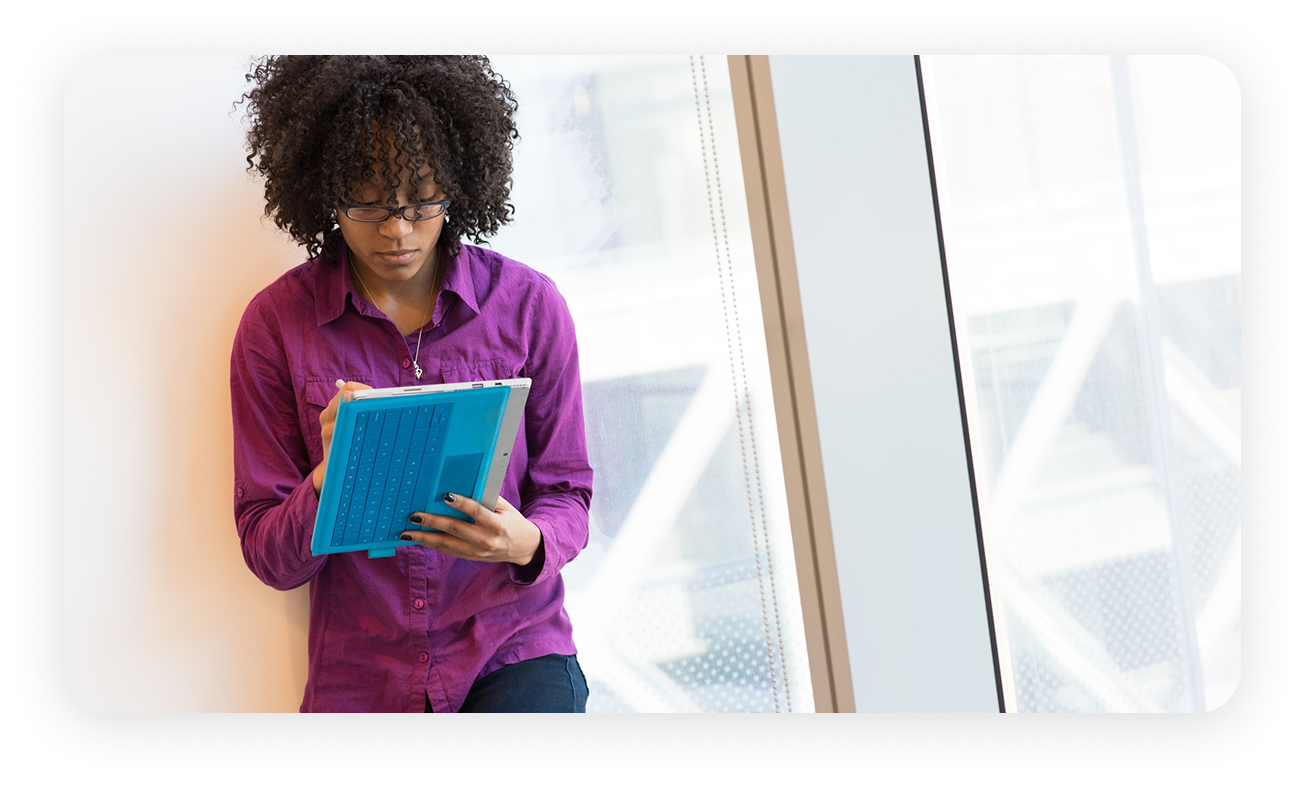
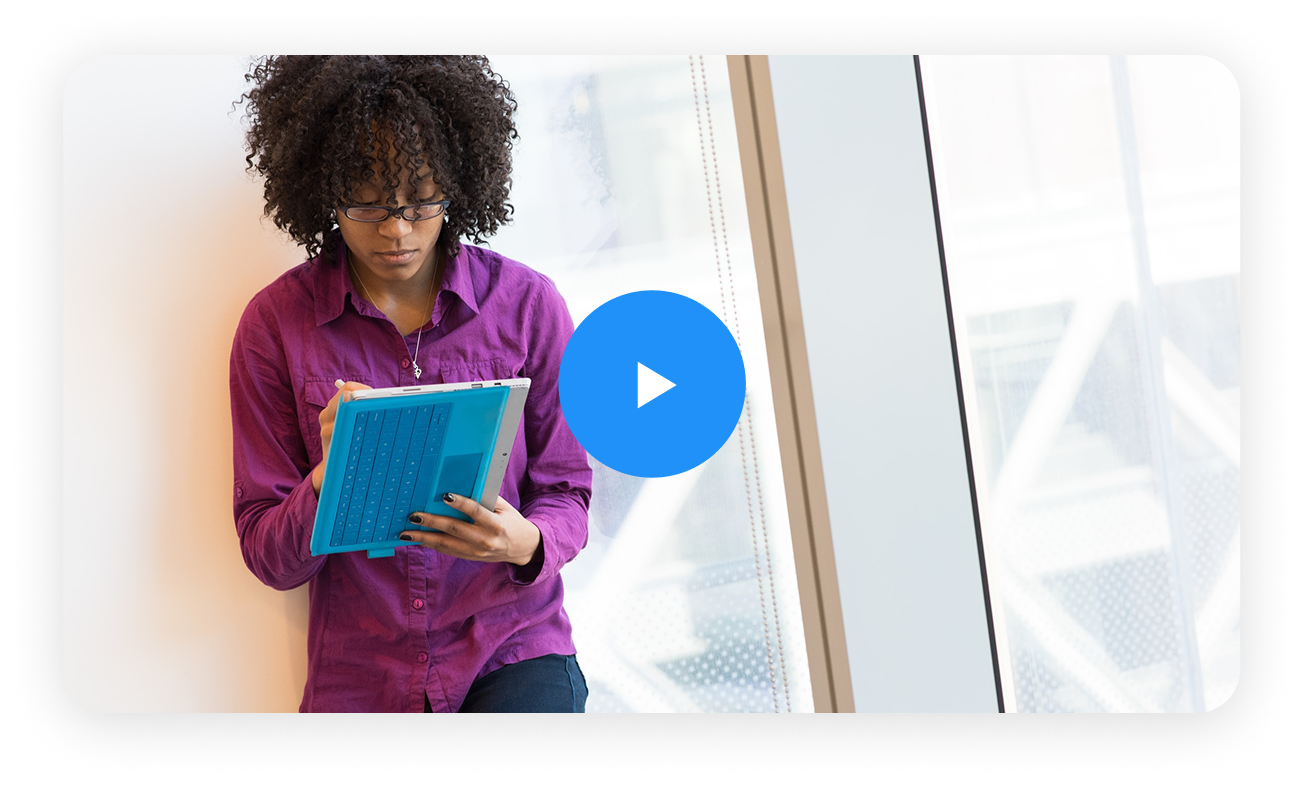
write css from feauture section

diff --git a/index.features.partial.html b/index.features.partial.html
@@ -1,30 +1,50 @@
-<section>
-  <div>
-    <h2>Features</h2>
-    <p>
+<section class="features">
+  <div class="feautures-container container">
+    <h2 class="feautures-title">Features</h2>
+    <p class="feautures-text">
       Most calendars are designed for teams. Slate is designed for freelancers
     </p>
-    <ul>
-      <li>
-        <img src="svg/Vector_features_1.svg" alt="коло та квадрат" />
-        <h3>OpenType features Variable fonts</h3>
-        <p>
+    <img
+      class="features-img--workplace"
+      src="img/features_workplace_mob.png"
+      alt="Workplace_img"
+      aria-label="Workplace"
+    />
+    <ul class="features-list">
+      <li class="feautures-list__item">
+        <img
+          class="feautures-list__item--img"
+          src="svg/Vector_features_1.svg"
+          alt="Коло та квадрат"
+        />
+        <h3 class="feautures-list__item--title">
+          OpenType features Variable fonts
+        </h3>
+        <p class="feautures-list__item--text">
           Slate helps you see how many more days you need to work to reach your
           financial goal.
         </p>
       </li>
-      <li>
-        <img src="svg/Vector_features_2.svg" alt="Олівець який малює" />
-        <h3>Design with real data</h3>
-        <p>
+      <li class="feautures-list__item">
+        <img
+          class="feautures-list__item--img"
+          src="svg/Vector_features_2.svg"
+          alt="Олівець який малює"
+        />
+        <h3 class="feautures-list__item--title">Design with real data</h3>
+        <p class="feautures-list__item--text">
           Slate helps you see how many more days you need to work to reach your
           financial goal.
         </p>
       </li>
-      <li>
-        <img src="svg/Vector_features_3.svg" alt="пензлик" />
-        <h3>Fastest way to take action</h3>
-        <p>
+      <li class="feautures-list__item">
+        <img
+          class="feautures-list__item--img"
+          src="svg/Vector_features_3.svg"
+          alt="Пензлик"
+        />
+        <h3 class="feautures-list__item--title">Fastest way to take action</h3>
+        <p class="feautures-list__item--text">
           Slate helps you see how many more days you need to work to reach your
           financial goal.
         </p>

diff --git a/css/index.header-hero.css b/css/index.header-hero.css
@@ -1,25 +1,65 @@
 .header {
-    background-image: url(../img/background_img_mob.png);
-    block-size: cover;
-    background-position: center;
-    background-repeat: no-repeat;
-    min-width: 320px;
-    width: 100%;
-    height: 100%;
-    margin: 0;
-    padding: 0;
+  background-image: url(../img/background_img_mob.png);
+  block-size: cover;
+  background-position: center;
+  background-repeat: no-repeat;
+  min-width: 320px;
+  width: 100%;
+  height: 100%;
+  margin: 0;
+  padding: 0;
 
-    @media (min-width: 416px) {
-      background-image: url(../img/background_img_desc.png);
-    }
+  @media (min-width: 416px) {
+    background-image: url(../img/background_img_desc.png);
+  }
+
+  .hero-container {
+    color: var(--background-color);
+    text-align: center;
 
     .hero-title {
-        padding-top: 90px;
-        padding-left: 25px;
-        padding-right: 25px;
-        text-align: center;
+      padding: 70px 15px 20px 15px;
+      font-size: 2.2rem;
+      font-weight: 400;
+      line-height: 55px;
+      color: var(--background-color);
+
+      @media (min-width: 416px) {
+        padding: 90px 17px 27px 17px;
         font-size: 2.66rem;
-        
-        color: var(--background-color);
+      }
     }
+
+    .hero-text {
+      font-size: 1.2rem;
+      line-height: 40px;
+      padding: 0px 40px 50px 40px;
+
+      @media (min-width: 416px) {
+        font-size: 1.55rem;
+        line-height: 40px;
+        padding: 0px 70px 70px 70px;
+      }
+    }
+
+    .hero-button {
+      display: inline-block;
+      margin-bottom: 220px;
+      background-color: var(--accent-color);
+      border-radius: 35px;
+      padding: 16px 86px;
+      text-decoration: none;
+      transition: background-color var(--transition-speed) easy;
+      
+      &:hover {
+        background-color: #1061ab; 
+      }
+
+      .hero-button__text {
+        color: var(--background-color);
+        font-size: 1rem;
+        font-weight: 400;
+      }
+    }
+  }
 }

diff --git a/css/index.features.css b/css/index.features.css
@@ -1,0 +1,95 @@
+.feautures-container {
+  margin: 80px 0px;
+  text-align: center;
+
+  .feautures-title {
+    padding: 10px;
+    margin-bottom: 7px;
+    font-size: 2rem;
+    font-weight: 400;
+    color: var(--text-title-color);
+
+    @media (min-width: 416px) {
+      font-size: 2.66rem;
+    }
+  }
+
+  .feautures-text {
+    font-size: 1.2rem;
+    line-height: 30px;
+    color: var(--text-color);
+    padding: 10px 30px;
+    margin-bottom: 40px;
+
+    @media (min-width: 416px) {
+      font-size: 1.55rem;
+      line-height: 40px;
+      padding: 10px 50px;
+      margin-bottom: 50px;
+    }
+  }
+
+  .features-img--workplace {
+    width: 100%;
+    height: auto;
+    object-fit: cover;
+    margin-bottom: 40px;
+
+    @media (min-width: 416px) {
+      margin-bottom: 50px;
+    }
+
+    @media (min-width: 768px) {
+      display: none;
+    }
+  }
+
+  .features-list {
+    padding: 10px 50px;
+
+    @media (min-width: 416px) {
+        padding: 18px 65px;
+    }
+    
+    .feautures-list__item {
+        padding: 10px 0;
+
+        .feautures-list__item--img {
+            width: 60px;
+            height: 60px;
+            margin-left: auto;
+            margin-right: auto;
+            object-fit: contain;
+            margin-bottom: 10px;
+        }
+
+        .feautures-list__item--title {
+            padding: 10px;
+            font-weight: 600;
+            color: var(--text-title-color);
+            margin-bottom: 10px;
+
+            @media (min-width: 416px) {
+                padding: 10px 20px;
+                font-size: 1.1rem;
+                font-weight: 700;
+            }
+        }
+
+        .feautures-list__item--text {
+            padding: 0px 5px;
+            
+            color: var(--text-color);
+        }
+    }
+
+    .feautures-list__item:not(:last-child) {
+        margin-bottom: 60px;
+
+        @media 
+        (min-width: 416px) {
+            margin-bottom: 75px;
+        }
+    }
+  }
+}

diff --git a/global.header-nav.partial.html b/global.header-nav.partial.html
@@ -29,13 +29,19 @@
     </button>
     <ul class="header-social-networks__list social-networks list">
       <li class="header-social-networks__item social-networks__item">
-        <a href="svg/twiter_icon.svg"> </a>
+        <a href="#">
+          <img src="svg/twitter_icon.svg" alt="Twitter-icon" aria-label="Twitter">
+        </a>
       </li>
       <li class="header-social-networks__item social-networks__item">
-        <a href="svg/fb_icon.svg"> </a>
+        <a href="#">
+          <img src="svg/fb_icon.svg" alt="Facebook-icon" aria-label="Facebook">
+        </a>
       </li>
       <li class="header-social-networks__item social-networks__item">
-        <a href="svg/in_icon.svg"> </a>
+        <a href="#">
+          <img src="svg/in_icon.svg" alt="LinkedIn-icon" aria-label="LinkedIn">
+        </a>
       </li>
     </ul>
   </div>

diff --git a/css/social-networks.css b/css/social-networks.css
@@ -1,0 +1,22 @@
+.social-networks {
+    display: flex;
+    justify-content: center;
+    gap: 24px;
+
+    .social-networks__item {
+      width: 40px;
+      height: 40px;
+      display: flex;
+      align-items: center;
+      justify-content: center;
+      border-radius: 50%;
+      background-color: inherit;
+      cursor: pointer;
+
+      .social-networks__icon {
+        width: 20px;
+        height: 20px;
+        color: var(--background-color);
+      }
+    }
+}

diff --git a/css/global.css b/css/global.css
@@ -6,7 +6,21 @@
   margin: 0;
   padding: 0;
   box-sizing: border-box;
-  font-weight: 400;
+}
+h1,
+h2,
+h3,
+h4,
+h5,
+h6,
+p {
+  margin: 0;
+  padding: 0;
+  
+}
+a {
+  text-decoration: none;
+  color: inherit;
 }
 ul,
 li {
@@ -52,6 +66,7 @@ body.no-scroll {
 }
 .container {
   max-width: var(--container-max-width);
+  padding: 0 15px;
   margin: auto;
 }
 .link {

diff --git a/index.promo-video.partial.html b/index.promo-video.partial.html
@@ -2,6 +2,6 @@
         <div>
           <video src="#"></video>
           <img src="img/video_screen.png" alt="скрін відео" />
-          <button><img src="svg/play.svg" alt="пуск" /></button>
+          <!-- <button><img src="svg/play.svg" alt="пуск" /></button> -->
         </div>
       </section>

diff --git a/index.header-hero.partial.html b/index.header-hero.partial.html
@@ -4,7 +4,6 @@
     <p class="hero-text">
       Most calendars are designed for teams. Slate is designed for freelancers
     </p>
-    Try For Free
     <a href="#" class="hero-button">
       <span class="hero-button__text">Try For Free</span>
     </a>

diff --git a/css/global.header-nav.css b/css/global.header-nav.css
@@ -142,5 +142,13 @@
         transform: translateY(0) rotate(-45deg);
       }
     }
+
+    .header-social-networks__list {
+      display: none;
+
+      @media (min-width:768px) {
+        display: flex;
+      }
+    }
   }
 }

diff --git a/css/index.css b/css/index.css
@@ -1,3 +1,5 @@
 @import 'global.css';
 @import 'global.header-nav.css';
+@import 'social-networks.css';
 @import 'index.header-hero.css';
+@import 'index.features.css';
